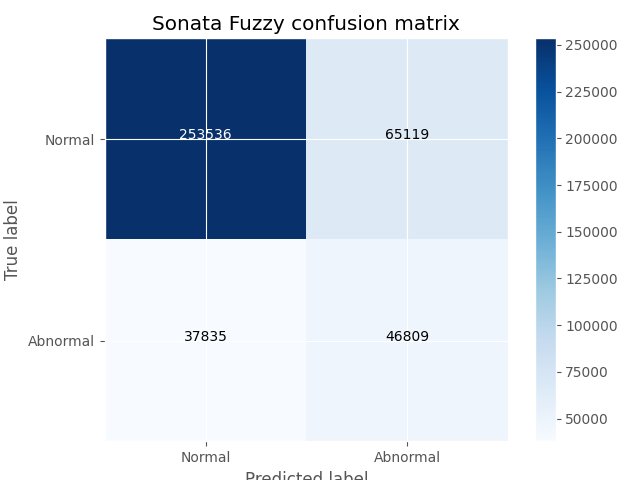
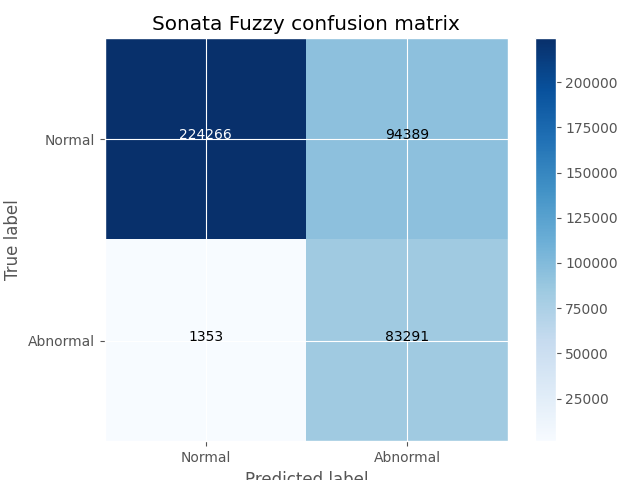
Add functions

diff --git a/MainTesting.py b/MainTesting.py
@@ -8,6 +8,11 @@ from matplotlib import pyplot as plt, style # for ploting
 from sklearn.metrics import accuracy_score, fbeta_score, precision_score, recall_score, confusion_matrix # for evaluation
 from scipy.stats import multivariate_normal
 from sklearn.tree import DecisionTreeClassifier, plot_tree
+from sklearn.linear_model import LogisticRegression
+from sklearn.neighbors import KNeighborsClassifier
+from sklearn import svm
+from sklearn.naive_bayes import GaussianNB
+from sklearn.ensemble import RandomForestClassifier
 
 style.use('ggplot')
 np.random.seed(42) 
@@ -184,10 +189,9 @@ def statistical_tec(train, valid, test, car, attack):
     plt.ylabel('Score')
     plt.xlabel('Threshold')
     plt.legend(loc='best')
-    # plt.show()
-
     plt.title(car + " " + attack + " f1 score")
-    plt.savefig(os.path.join(CURRENT_FOLDER, "output", car, attack + "_f1_score.png"))
+
+    # plt.savefig(os.path.join(CURRENT_FOLDER, "output", car, attack + "_f1_score.png"))
 
     final_tresh = tresholds[scores[:, 2].argmax()]
     y_hat_test = (model.logpdf(test.drop('flag', axis=1).values) < final_tresh).astype(int)
@@ -220,7 +224,134 @@ def decisiontree_tec(train, valid, test, car, attack):
 
     fig, ax = plt.subplots(figsize=(20, 20))
     plot_tree(clf, ax=ax, filled=True)
-    plt.show()
+
+    cnf_matrix = confusion_matrix(test_Y, preds)
+    plot_confusion_matrix(cnf_matrix, classes=['Normal', 'Abnormal'], title='Confusion matrix', car=car, attack=attack)
+
+
+def kNN_tec(train, valid, test, car, attack):
+    train_X = valid.drop(['flag'], axis=1)
+    train_Y = valid['flag']
+    test_X = test.drop(['flag'], axis=1)
+    test_Y = test['flag']
+
+    model = KNeighborsClassifier()
+    model.fit(train_X, train_Y)
+    preds = model.predict(test_X)
+
+    print('Accuracy: {:.4f}%'.format(accuracy_score(test_Y, preds) * 100))
+    print('Recall: {:.4f}%'.format(recall_score(test_Y, preds) * 100))
+    print('Precision: {:.4f}%'.format(precision_score(test_Y, preds) * 100))
+    print('F1 score: {:.4f}%'.format(fbeta_score(test_Y, preds, beta=1) * 100))
+
+    cnf_matrix = confusion_matrix(test_Y, preds)
+    plot_confusion_matrix(cnf_matrix, classes=['Normal', 'Abnormal'], title='Confusion matrix', car=car, attack=attack)
+
+    a_index = list(range(1, 11))
+    a = pd.Series()
+    x = [0, 1, 2, 3, 4, 5, 6, 7, 8, 9, 10]
+    for i in list(range(1, 11)):
+        model = KNeighborsClassifier(n_neighbors=i)
+        model.fit(train_X, train_Y)
+        prediction = model.predict(test_X)
+        a = a.append(pd.Series(accuracy_score(prediction, test_Y)))
+    plt.plot(a_index, a)
+    plt.xticks(x)
+    fig = plt.gcf()
+    fig.set_size_inches(12, 6)
+    print('Accuracies for different values of n are:', a.values, 'with the max value as ', a.values.max())
+
+
+def logireg_tec(train, valid, test, car, attack):
+    train_X = valid.drop(['flag'], axis=1)
+    train_Y = valid['flag']
+    test_X = test.drop(['flag'], axis=1)
+    test_Y = test['flag']
+
+    model = LogisticRegression()
+    model.fit(train_X, train_Y)
+    preds = model.predict(test_X)
+
+    print('Accuracy: {:.4f}%'.format(accuracy_score(test_Y, preds) * 100))
+    print('Recall: {:.4f}%'.format(recall_score(test_Y, preds) * 100))
+    print('Precision: {:.4f}%'.format(precision_score(test_Y, preds) * 100))
+    print('F1 score: {:.4f}%'.format(fbeta_score(test_Y, preds, beta=1) * 100))
+
+    cnf_matrix = confusion_matrix(test_Y, preds)
+    plot_confusion_matrix(cnf_matrix, classes=['Normal', 'Abnormal'], title='Confusion matrix', car=car, attack=attack)
+
+
+def linSVM_tec(train, valid, test, car, attack):
+    train_X = valid.drop(['flag'], axis=1)
+    train_Y = valid['flag']
+    test_X = test.drop(['flag'], axis=1)
+    test_Y = test['flag']
+
+    model = svm.SVC(kernel='linear', C=0.1, gamma=0.1)
+    model.fit(train_X, train_Y)
+    preds = model.predict(test_X)
+
+    print('Accuracy: {:.4f}%'.format(accuracy_score(test_Y, preds) * 100))
+    print('Recall: {:.4f}%'.format(recall_score(test_Y, preds) * 100))
+    print('Precision: {:.4f}%'.format(precision_score(test_Y, preds) * 100))
+    print('F1 score: {:.4f}%'.format(fbeta_score(test_Y, preds, beta=1) * 100))
+
+    cnf_matrix = confusion_matrix(test_Y, preds)
+    plot_confusion_matrix(cnf_matrix, classes=['Normal', 'Abnormal'], title='Confusion matrix', car=car, attack=attack)
+
+
+def rbfSVM_tec(train, valid, test, car, attack):
+    train_X = valid.drop(['flag'], axis=1)
+    train_Y = valid['flag']
+    test_X = test.drop(['flag'], axis=1)
+    test_Y = test['flag']
+
+    model = svm.SVC(kernel='rbf', C=0.1, gamma=0.1)
+    model.fit(train_X, train_Y)
+    preds = model.predict(test_X)
+
+    print('Accuracy: {:.4f}%'.format(accuracy_score(test_Y, preds) * 100))
+    print('Recall: {:.4f}%'.format(recall_score(test_Y, preds) * 100))
+    print('Precision: {:.4f}%'.format(precision_score(test_Y, preds) * 100))
+    print('F1 score: {:.4f}%'.format(fbeta_score(test_Y, preds, beta=1) * 100))
+
+    cnf_matrix = confusion_matrix(test_Y, preds)
+    plot_confusion_matrix(cnf_matrix, classes=['Normal', 'Abnormal'], title='Confusion matrix', car=car, attack=attack)
+
+
+def gaunav_tec(train, valid, test, car, attack):
+    train_X = valid.drop(['flag'], axis=1)
+    train_Y = valid['flag']
+    test_X = test.drop(['flag'], axis=1)
+    test_Y = test['flag']
+
+    model = GaussianNB()
+    model.fit(train_X, train_Y)
+    preds = model.predict(test_X)
+
+    print('Accuracy: {:.4f}%'.format(accuracy_score(test_Y, preds) * 100))
+    print('Recall: {:.4f}%'.format(recall_score(test_Y, preds) * 100))
+    print('Precision: {:.4f}%'.format(precision_score(test_Y, preds) * 100))
+    print('F1 score: {:.4f}%'.format(fbeta_score(test_Y, preds, beta=1) * 100))
+
+    cnf_matrix = confusion_matrix(test_Y, preds)
+    plot_confusion_matrix(cnf_matrix, classes=['Normal', 'Abnormal'], title='Confusion matrix', car=car, attack=attack)
+
+
+def randomforest_tec(train, valid, test, car, attack):
+    train_X = valid.drop(['flag'], axis=1)
+    train_Y = valid['flag']
+    test_X = test.drop(['flag'], axis=1)
+    test_Y = test['flag']
+
+    model = RandomForestClassifier(n_estimators=100)
+    model.fit(train_X, train_Y)
+    preds = model.predict(test_X)
+
+    print('Accuracy: {:.4f}%'.format(accuracy_score(test_Y, preds) * 100))
+    print('Recall: {:.4f}%'.format(recall_score(test_Y, preds) * 100))
+    print('Precision: {:.4f}%'.format(precision_score(test_Y, preds) * 100))
+    print('F1 score: {:.4f}%'.format(fbeta_score(test_Y, preds, beta=1) * 100))
 
     cnf_matrix = confusion_matrix(test_Y, preds)
     plot_confusion_matrix(cnf_matrix, classes=['Normal', 'Abnormal'], title='Confusion matrix', car=car, attack=attack)
@@ -249,7 +380,15 @@ def train2test(car, attack):
     test = testing_normal.append(testing_abnormal)
 
     # statistical_tec(train, valid, test, car, attack)
-    decisiontree_tec(train, valid, test, car, attack)
+    # decisiontree_tec(train, valid, test, car, attack)
+    kNN_tec(train, valid, test, car, attack)
+    # logireg_tec(train, valid, test, car, attack)
+        # 로지스틱 회의 경우 제대로 분류 X
+    # linSVM_tec(train, valid, test, car, attack)
+    # rbfSVM_tec(train, valid, test, car, attack)
+        # 서포트 벡터 머신의 경우 시간이 너무 오래 걸림. 위 SVM 2개는 서버에서 돌려주세요 ㅠㅠ
+    # gaunav_tec(train, valid, test, car, attack)
+    # randomforest_tec(train, valid, test, car, attack)
 
 
 if __name__=='__main__':
@@ -265,4 +404,6 @@ if __name__=='__main__':
             read_csv_test(car, attack)            
             read_csv_train(car, attack)
             train2test(car, attack)
+            plt.show()
+
             print()
